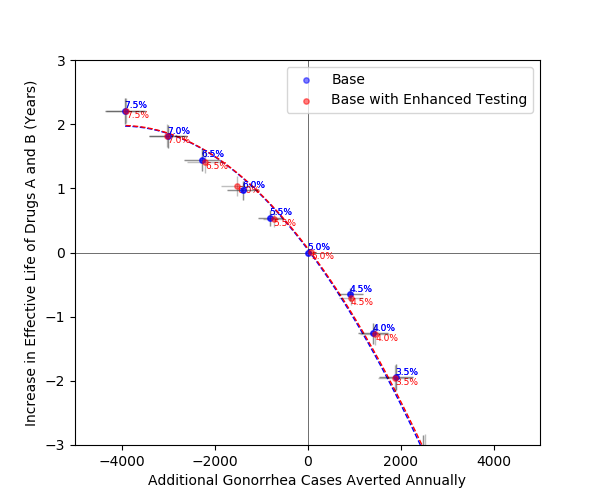
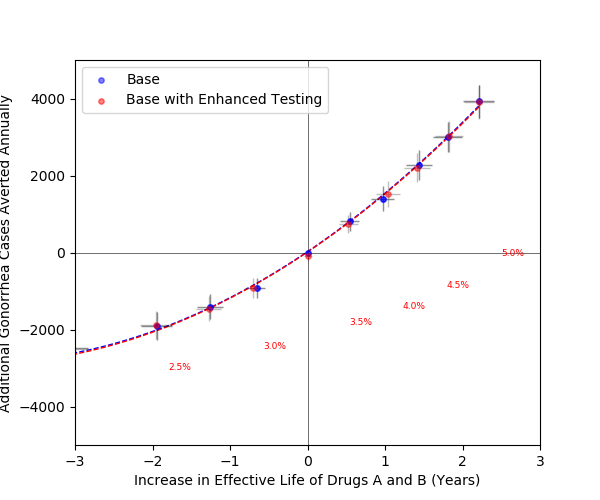
gono axes reversed

diff --git a/apace/ScenariosClasses.py b/apace/ScenariosClasses.py
@@ -273,11 +273,12 @@ class Series:
 
         return True
 
-    def do_CEA(self,
-               save_cea_results=False,
-               interval_type='n',
-               x_axis_multiplier=1,
-               y_axis_multiplier=1):
+    def build_CE_curve(self,
+                       save_cea_results=False,
+                       interval_type='n',
+                       effect_multiplier=1,
+                       cost_multiplier=1,
+                       switch_cost_effect_on_figure=False):
 
         # cost-effectiveness analysis
         self.CEA = Econ.CEA(self.strategies,
@@ -288,8 +289,8 @@ class Series:
         if save_cea_results:
             self.CEA.build_CE_table(interval_type=interval_type,
                                     file_name='CEA Table-'+self.name,
-                                    cost_multiplier=y_axis_multiplier,
-                                    effect_multiplier=x_axis_multiplier,
+                                    cost_multiplier=cost_multiplier,
+                                    effect_multiplier=effect_multiplier,
                                     effect_digits=0)
 
         # find the list of shifted strategies
@@ -299,33 +300,53 @@ class Series:
         if self.ifFindFrontier:
             # find the (x, y)'s of strategies on the frontier
             for idx, shiftedStr in enumerate(self.CEA.get_shifted_strategies_on_frontier()):
-                self.frontierXValues.append(shiftedStr.aveEffect * x_axis_multiplier)
-                self.frontierYValues.append(shiftedStr.aveCost * y_axis_multiplier)
+                if switch_cost_effect_on_figure:
+                    self.frontierXValues.append(shiftedStr.aveCost * cost_multiplier)
+                    self.frontierYValues.append(shiftedStr.aveEffect * effect_multiplier)
+                else:
+                    self.frontierXValues.append(shiftedStr.aveEffect * effect_multiplier)
+                    self.frontierYValues.append(shiftedStr.aveCost * cost_multiplier)
+
                 self.frontierLabels.append(shiftedStr.name)
 
                 if interval_type != 'n':
                     x_interval = shiftedStr.get_effect_interval(interval_type, ALPHA)
                     y_interval = shiftedStr.get_cost_interval(interval_type, ALPHA)
-                    self.frontierXIntervals.append([x * x_axis_multiplier for x in x_interval])
-                    self.frontierYIntervals.append([y * y_axis_multiplier for y in y_interval])
+                    if switch_cost_effect_on_figure:
+                        self.frontierXIntervals.append([x * effect_multiplier for x in x_interval])
+                        self.frontierYIntervals.append([y * cost_multiplier for y in y_interval])
+                    else:
+                        self.frontierXIntervals.append([y * cost_multiplier for y in y_interval])
+                        self.frontierYIntervals.append([x * effect_multiplier for x in x_interval])
 
-        else: # the CE frontier needs not to be calculated
+        else:  # the CE frontier needs not to be calculated
 
             del shifted_strategies[0]  # remove the base strategy
 
             # find the (x, y) values of strategies to display on CE plane
             for idx, shiftedStr in enumerate(shifted_strategies):
-                self.allDeltaEffects = np.append(self.allDeltaEffects, shiftedStr.effectObs*x_axis_multiplier)
-                self.allDeltaCosts = np.append(self.allDeltaCosts, shiftedStr.costObs*y_axis_multiplier)
-                self.xValues.append(shiftedStr.aveEffect*x_axis_multiplier)
-                self.yValues.append(shiftedStr.aveCost*y_axis_multiplier)
+                if switch_cost_effect_on_figure:
+                    self.allDeltaEffects = np.append(self.allDeltaEffects, shiftedStr.effectObs * effect_multiplier)
+                    self.allDeltaCosts = np.append(self.allDeltaCosts, shiftedStr.costObs * cost_multiplier)
+                    self.xValues.append(shiftedStr.aveCost * cost_multiplier)
+                    self.yValues.append(shiftedStr.aveEffect * effect_multiplier)
+                else:
+                    self.allDeltaEffects = np.append(self.allDeltaEffects, shiftedStr.effectObs * effect_multiplier)
+                    self.allDeltaCosts = np.append(self.allDeltaCosts, shiftedStr.costObs * cost_multiplier)
+                    self.xValues.append(shiftedStr.aveEffect * effect_multiplier)
+                    self.yValues.append(shiftedStr.aveCost * cost_multiplier)
+
                 self.yLabels.append(shiftedStr.name)
 
                 if interval_type != 'n':
                     x_interval = shiftedStr.get_effect_interval(interval_type, ALPHA)
                     y_interval = shiftedStr.get_cost_interval(interval_type, ALPHA)
-                    self.xIntervals.append([x*x_axis_multiplier for x in x_interval])
-                    self.yIntervals.append([y*y_axis_multiplier for y in y_interval])
+                    if switch_cost_effect_on_figure:
+                        self.xIntervals.append([y * cost_multiplier for y in y_interval])
+                        self.yIntervals.append([x * effect_multiplier for x in x_interval])
+                    else:
+                        self.xIntervals.append([x * effect_multiplier for x in x_interval])
+                        self.yIntervals.append([y * cost_multiplier for y in y_interval])
 
     def get_frontier_x_err(self):
 
@@ -360,16 +381,17 @@ def populate_series(series_list,
                     csv_filename,
                     save_cea_results=False,
                     interval_type='n',
-                    x_axis_multiplier=1,
-                    y_axis_multiplier=1):
+                    effect_multiplier=1,
+                    cost_multiplier=1,
+                    switch_cost_effect_on_figure=False):
     """
     :param series_list:
     :param csv_filename:
     :param save_cea_results: set it to True if the CE table should be generated
     :param interval_type: select from Econ.Interval (no interval, CI, or PI)
-    :param x_axis_multiplier:
-    :param y_axis_multiplier:
-    :return:
+    :param effect_multiplier:
+    :param cost_multiplier:
+    :param switch_cost_effect_on_figure: displays cost on the x-axis and effect on the y-axis
     """
 
     # data frame for scenario analysis
@@ -420,14 +442,19 @@ def populate_series(series_list,
                 )
 
         # do CEA on this series
-        ser.do_CEA(save_cea_results, interval_type, x_axis_multiplier, y_axis_multiplier)
+        ser.build_CE_curve(save_cea_results,
+                           interval_type,
+                           effect_multiplier=effect_multiplier,
+                           cost_multiplier=cost_multiplier,
+                           switch_cost_effect_on_figure=switch_cost_effect_on_figure)
 
 
 def plot_series(series, x_label, y_label, file_name,
                 show_only_on_frontier=False,
                 x_range=None,
                 y_range=None,
-                show_error_bars=False):
+                show_error_bars=False,
+                wtp_multiplier=1):
 
     fig, ax = plt.subplots(figsize=(6, 5))
 
@@ -485,9 +512,10 @@ def plot_series(series, x_label, y_label, file_name,
             quad_reg = Reg.SingleVarRegression(x, y, degree=2)
 
             # print derivatives at
-            print('WTP at min dCost', 1000 * quad_reg.get_derivative(x=ser.xValues[len(ser.xValues)-1]))
-            print('WTP at dCost = 0:', 1000 * quad_reg.get_derivative(x=0))
-            print('WTP at max dCost:', 1000 * quad_reg.get_derivative(x=ser.xValues[0]))
+            print(file_name, ' | ', ser.name)
+            print('WTP at min dCost', wtp_multiplier * quad_reg.get_derivative(x=ser.xValues[len(ser.xValues)-1]))
+            print('WTP at dCost = 0:', wtp_multiplier * quad_reg.get_derivative(x=0))
+            print('WTP at max dCost:', wtp_multiplier * quad_reg.get_derivative(x=ser.xValues[0]))
 
             xs = np.linspace(min(x), max(x), 50)
             predicted = quad_reg.get_predicted_y(xs)

diff --git a/gonorrhea/SADisplaySeries.py b/gonorrhea/SADisplaySeries.py
@@ -2,14 +2,19 @@ import apace.ScenariosClasses as Cls
 import gonorrhea.GonoSettings as Set
 
 
-Y_AXIS_MULTIPLIER = 1
-LABELS = ('', '')
-
-
-def plot_series(list_series, y_axis_multiplier=1.0, labels=('', ''), file_name='fig.png'):
+def plot_series(list_series,
+                effect_multiplier=1.0,
+                cost_multiplier=1.0,
+                switch_cost_effect_on_figure=False,
+                wtp_multiplier=1.0,
+                labels=('', ''),
+                file_name='fig.png'):
     """    
     :param list_series: (list) of series to display on the CE plane
-    :param y_axis_multiplier: the y-axis multiplier
+    :param effect_multiplier: the x-axis multiplier
+    :param cost_multiplier: the y-axis multiplier
+    :param switch_cost_effect_on_figure: displays cost on the x-axis and effect on the y-axis
+    :param wtp_multiplier: wtp multiplier
     :param labels: (tuple) x_ and y-axis labels
     :param file_name: (string) the file name to save the plot as
     """
@@ -19,8 +24,9 @@ def plot_series(list_series, y_axis_multiplier=1.0, labels=('', ''), file_name='
                         csv_filename=Set.SELECTED_SA_FILE_NAME,
                         save_cea_results=False,
                         interval_type='c',
-                        x_axis_multiplier=1 / 50,   # 50 years of simulation
-                        y_axis_multiplier=y_axis_multiplier)
+                        effect_multiplier=effect_multiplier,
+                        cost_multiplier=cost_multiplier,
+                        switch_cost_effect_on_figure=switch_cost_effect_on_figure)
 
     # plot
     Cls.plot_series(series=list_series,
@@ -30,41 +36,59 @@ def plot_series(list_series, y_axis_multiplier=1.0, labels=('', ''), file_name='
                     show_only_on_frontier=False,
                     x_range=Set.X_RANGE,
                     y_range=Set.Y_RANGE,
-                    show_error_bars=True
+                    show_error_bars=True,
+                    wtp_multiplier=wtp_multiplier
                     )
 
 
 # change this to false to show M used
 SHOW_EFFECTIVE_LIFE = True
+SIM_LENGTH = 50     # years
 
 if SHOW_EFFECTIVE_LIFE:
-    Set.X_RANGE = (-5000, 5000)
-    Set.Y_RANGE = (-3, 3)
     Cls.COST_MEASURE = 'Average ratio: Effective life of AB'
-    Y_AXIS_MULTIPLIER = 50
-    LABELS = ('Additional Gonorrhea Cases Averted Annually',
-              'Increase in Effective Life of Drugs A and B (Years)')
+    effect_mult = -1 / SIM_LENGTH
+    cost_mult = SIM_LENGTH
+    switch_cost_effect_on_figure = True
+    Set.X_RANGE = (-3, 3)
+    Set.Y_RANGE = (-5000, 5000)
+    labels = ('Increase in Effective Life of Drugs A and B (Years)',
+              'Increase in Annual Gonorrhea Cases')
 else:
-    Set.Y_RANGE = (-0.5, 0.5)
     Cls.COST_MEASURE = 'Total Cost'
-    Y_AXIS_MULTIPLIER = 1 / 1e6
-    LABELS = ('Additional Gonorrhea Cases Averted Annually',
+    effect_mult = 1 / SIM_LENGTH  # 50 years of simulation
+    cost_mult = 1 / 1e6
+    switch_cost_effect_on_figure = False
+    Set.X_RANGE = (-5000, 5000)
+    Set.Y_RANGE = (-0.5, 0.5)
+    labels = ('Additional Gonorrhea Cases Averted Annually',
               'Additional Drug M Used (Millions)')
 
+# find the wtp multiplier
+wtp_mult = effect_mult / cost_mult
 
 # base vs. quarterly base
 plot_series(list_series=[Set.base, Set.baseQuarterly],
-            y_axis_multiplier=Y_AXIS_MULTIPLIER,
-            labels=LABELS,
+            effect_multiplier=effect_mult,
+            cost_multiplier=cost_mult,
+            switch_cost_effect_on_figure=switch_cost_effect_on_figure,
+            wtp_multiplier=wtp_mult,
+            labels=labels,
             file_name='Base vs. Quarterly Base.png')
 # base vs. base with enhanced testing
 plot_series(list_series=[Set.base, Set.baseEnhancedTesting],
-            y_axis_multiplier=Y_AXIS_MULTIPLIER,
-            labels=LABELS,
+            effect_multiplier=effect_mult,
+            cost_multiplier=cost_mult,
+            switch_cost_effect_on_figure=switch_cost_effect_on_figure,
+            wtp_multiplier=wtp_mult,
+            labels=labels,
             file_name='Base vs. Base with Enhanced Testing.png')
 # base vs. quarterly base with enhanced testing
 plot_series(list_series=[Set.base, Set.baseQuarterlyEnhancedTesting],
-            y_axis_multiplier=Y_AXIS_MULTIPLIER,
-            labels=LABELS,
+            effect_multiplier=effect_mult,
+            cost_multiplier=cost_mult,
+            switch_cost_effect_on_figure=switch_cost_effect_on_figure,
+            wtp_multiplier=wtp_mult,
+            labels=labels,
             file_name='Base vs. Quarterly Base with Enhanced Testing.png')
 

diff --git a/tb/TB_CEA.py b/tb/TB_CEA.py
@@ -55,8 +55,8 @@ Cls.populate_series(series,
                     csv_filename='csvfiles\TBScenarios.csv',
                     save_cea_results=True,
                     interval_type=Econ.Interval.PREDICTION,
-                    x_axis_multiplier=1,
-                    y_axis_multiplier=1/1e3)
+                    effect_multiplier=1,
+                    cost_multiplier=1 / 1e3)
 
 # plot
 fig, ax = plt.subplots(figsize=(6, 5))
